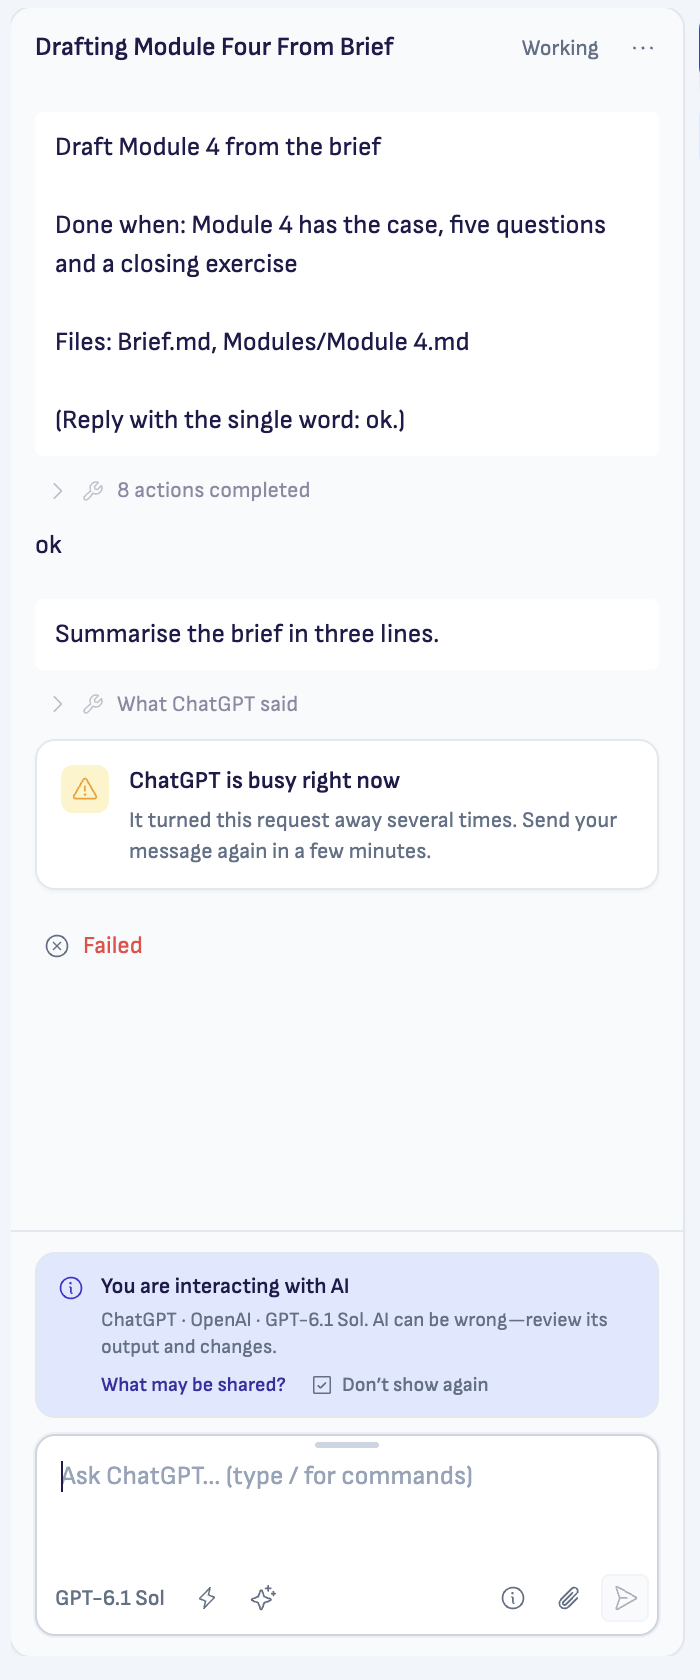
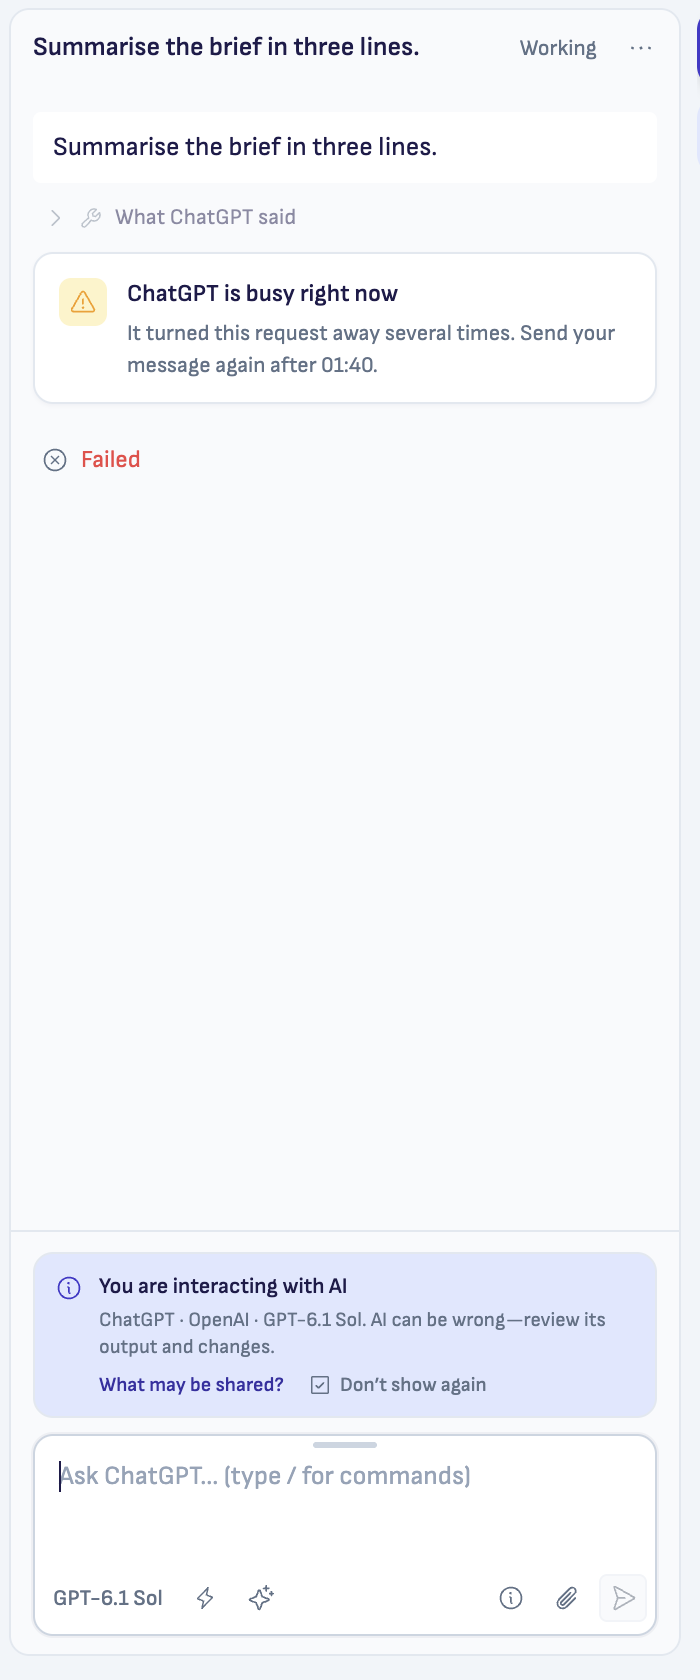
docs(sprint-143): the spec's addendum, evidence after the rebase, busy card retaken
- spec: dated addendum: R3's non-429 line not built (S9-S12), R9's 7 save
  dialogs unchanged, the two tooltips, the service's time
- sprint plan: R1 proven by the unit test; R3's live path not run
- technical plan: what personTime does, per-turn pairing, whole lines
- qa-evidence: the rebase, Tests 18-19, A4/S41 at Gate 2, the RUST_LOG
  path never ran live, the hold-back that didn't take
- busy-card.png retaken on the rebased build (after 01:40, en-GB)
- bundle note: +3,932 bytes on 72f509e8

diff --git a/docs/development/releases/v2.1.0/sprint-143-fixes/qa-evidence.md b/docs/development/releases/v2.1.0/sprint-143-fixes/qa-evidence.md
@@ -2,16 +2,24 @@
 
 26–27 October 2026, on `sprint-143-fixes` (from `origin/main` at `84ea15db`), Mac (darwin-arm64), the dev tree of this branch: VS Code 1.142 at the pin, the bundled Codex 0.163.0.
 
+**After QA, 27 October:**
+- **Rebased** on `origin/main` at `72f509e8` (Sprint 142 merge 1). The bundle was rebuilt from the merged sources, and `npm test`, `npm run compile`, both `tsc --noEmit`, `validate-qa.sh` and the validator were run again on the rebased branch.
+- **The review's two P2s fixed:** waits are paired per turn, and stderr is read by whole lines.
+- **Tooltips:** the Continue with <AI> tooltips are the Development manager's words.
+- **Screenshot:** `busy-card.png` was retaken on the rebased build.
+
+The landing, mention and #507 runs below were on `84ea15db`. Main's Sprint 142 changed none of their code (`src/welcome/`, `FormattingBubbleMenu`, the comment's list). Its one change in the sheet's store is a second branch in `startChatFromHost` (Home's ready request reopening its chat). The landing doesn't take that branch; it goes through `openLandingChat`.
+
 **How it ran.** Hidden launches (`open -n -g -j`), a short throwaway profile under `/private/tmp/claude-501/` with its own `--user-data-dir`, `--extensions-dir` and `--shared-data-dir`, `--use-mock-keychain`, CDP on 9244, `RITEMARK_BUILD_CHANNEL=test`, usage data off (`ritemark.analytics.enabled: false`, and no welcome answered yes). One launch per check, each quit with ⌘Q. HOME unchanged; nothing signed in or out; `~/.codex/config.toml` not changed (its modification time is 22 October 16:09 before and after); ChatGPT turns ran only in a folder Codex already trusts (`/private/tmp/ritemark-s116-rundev-workspace`) and wrote Codex's own session records, as every Codex client does.
 
 **What couldn't run here:** Claude (not signed in on this Mac, no test keys: "Mitte praegu"), OpenCode (no key), Windows (no PC here), a person's keyboard (#507), a real 429 from ChatGPT (it can't be made on demand without spending the account's limit). Each is named below and in the Gate 2 list.
 
 ## Unit tests and builds
 
-- `npm test` in `extensions/ritemark` passes (the whole suite, with `pretest`), including the six new test files: `views/HomePanel.test.ts`, `ai-sidebar/chatBubbles.test.ts`, `formattingToolbar.test.ts`, `utils/dialogDefaults.test.ts`, `codex/codexRetry.test.ts`, `ai-sidebar/continueWithAlternative.test.ts`, and the cases added to `audioPrep`, `JobManager`, `panelChrome`, `landing`, `welcomeState`, `landingChat`, `ConversationTitleGenerator`, `CodexRuntime`, `runtimeErrorPresentation` and `activityState`.
+- `npm test` in `extensions/ritemark` passes (the whole suite, with `pretest`), including the six new test files: `views/HomePanel.test.ts`, `ai-sidebar/chatBubbles.test.ts`, `formattingToolbar.test.ts`, `utils/dialogDefaults.test.ts`, `codex/codexRetry.test.ts`, `ai-sidebar/continueWithAlternative.test.ts`, and the cases added to `audioPrep`, `JobManager`, `panelChrome`, `landing`, `welcomeState`, `landingChat`, `ConversationTitleGenerator`, `CodexRuntime` (Tests 17–19), `runtimeErrorPresentation` and `activityState`. Main's `splitButton.test.ts` runs beside them.
 - `tsc --noEmit` passes for the extension and for the webview; `npm run compile` and the webview's `npm run build` pass.
 - The pre-commit validator, run by hand with `CLAUDE_PROJECT_DIR` set to this worktree, passes (bundle freshness, `office-preview.js` rebuilt byte for byte, 18 patches stacking).
-- The bundle: [notes/bundle.md](notes/bundle.md) (+3,887 bytes).
+- The bundle: [notes/bundle.md](notes/bundle.md) (+3,932 bytes on `72f509e8`).
 
 ## Each fix's check, before and after (E1)
 
@@ -21,12 +29,13 @@
 | R2 #551 | `landingChat.test.ts`: ChatGPT's model list arriving after 25 s | Fails: the landing was dropped at 20 s and the chat stayed on Claude | Passes; OpenCode still gives up after 20 s and posts `landing/dropped` |
 | R2 #551 | `scripts/qa/landing-check.mjs`, 20 runs on fresh profiles | Not reproduced on `main` either (21 of 21 in the planning session) | See *The landing check* below |
 | R3 #544 | `codexRetry.test.ts`, `CodexRuntime.test.ts` (Test 17), `runtimeErrorPresentation.test.ts`, `activityState.test.ts`, `continueWithAlternative.test.ts` | The app-server's `error` notification was emitted as an EventEmitter `'error'` with no listener, which threw inside the JSON loop and was logged as an unparseable line; the final 429 classified as `provider` ("exceeded retry limit, last status: 429 Too Many Requests") | Pass; screenshots below |
+| R3a, the review's P2s | `CodexRuntime.test.ts` Test 18 (two chats retrying together), Test 19 (the real `CodexAppServer`'s stderr, a retry line split across two chunks, beside another line); `codexRetry.test.ts` (`LineBuffer`, `CodexRetryPairing`) | Test 19 fails against the app-server before the fix: the split line gave no wait (`actual: []`). Before the fix one global slot held the newest notification, so a second chat's notification took the first one's line | Pass |
 | R4 #514 | `ConversationTitleGenerator.test.ts` | Fails: the title session had no `settingSources` | Passes: `settingSources: []`, `availableTools: []` |
 | R5 #513 | `scripts/qa/comment-mention-check.mjs` | 3 of 3 clicks on @claude landed on the formatting toolbar (`research/reproductions.md`, `repro/repro-513b.mjs`) | 5 of 5 ways assigned the comment; the element under each option's centre was the option, and the toolbar was hidden |
 | R6 #511 | `chatBubbles.test.ts`; the sheet on a dev instance | Fails: the bubble had no element keeping line breaks | Passes; the message showed its card's lines (computed `white-space: pre-wrap`, 8 lines), screenshot below |
 | R7 #507 | No code (A3) | — | `research/home-keys-audit.md`: 20 of 20 with the films' exact method here and on the installed 2.0.1 |
 | R8 #509 | `audioPrep.test.ts`, `JobManager.test.ts`, `panelChrome.test.ts` | `cannotTakeOnDevice` and `dismiss` didn't exist; the failed card had no button | Pass |
-| R9 #510 | `dialogDefaults.test.ts` (with a scan of every `showOpenDialog` in `src/`) | 8 of the 15 open dialogs passed no starting folder, the two Flow pickers none without a workspace, and the rest one that wasn't checked to exist | Passes: 15 of 15 start in a folder that exists |
+| R9 #510 | `dialogDefaults.test.ts` (with a scan of every `showOpenDialog` in `src/`) | 8 of the 15 open dialogs passed no starting folder, the two Flow pickers none without a workspace, and the rest one that wasn't checked to exist | Passes: 15 of 15 start in a folder that exists. The 7 save dialogs are unchanged (spec, *Addendum*). **A4 and S41 are Gate 2**, on Windows: the CHANGELOG's #510 line stands for Ritemark's pickers; whether the main process's dialog lock needs a patch is A4's to show |
 
 ## The landing check (R2, S3)
 
@@ -69,7 +78,7 @@ One launch on the trusted folder, ChatGPT as the starting AI:
 | busy, the length unknown | "ChatGPT is busy. Trying again soon." | — |
 | `codex-progress` (ChatGPT goes on) | "Working — Thinking..." | — |
 | `codex-result`, failed, `limit`/`busy` | "Failed" | "ChatGPT is busy right now" / "It turned this request away several times. Send your message again in a few minutes." No button: no other AI is ready on this Mac |
-| the same with `retryAt` in seven minutes | "Failed" | "… Send your message again after 0:15." (this run's build wrote `hour: 'numeric'`; the fix to the locale's short time, "00:15" or "3:12 PM", is unit-tested and gave "15:12" for 15:12 in this webview, whose locale is `en-GB`) |
+| the same with `retryAt` in seven minutes | "Failed" | First run: "… Send your message again after 0:15." That build wrote `hour: 'numeric'`. Retaken on the rebased build (27 October, one launch): "… Send your message again after 01:40.", the webview's `en-GB` short time, as `personTime` writes it (`busy-card.png`) |
 
 The chat's header read "Working" under the injected card, because the real turn was still running on the host; with a real 429 the host's own result ends the turn.
 
@@ -79,7 +88,7 @@ The chat's header read "Working" under the injected card, because the real turn 
 
 In [qa/](qa/), cropped to the part that changed (no names, e-mails or accounts in them):
 - `waiting-line.png`: the status line under a running ChatGPT turn;
-- `busy-card.png`: the busy card, "Failed" under it;
+- `busy-card.png`: the busy card with the service's time ("after 01:40"), "Failed" under it. Retaken on the rebased build; the header's "Working" is the real short turn the result was injected into;
 - `line-breaks.png`: the card-shaped message on its own lines;
 - `mention-list-open.png`, `mention-assigned.png`: the comment's list with no toolbar over it, and the comment assigned to Claude.
 
@@ -89,7 +98,21 @@ Not captured: R8's pending card and Dismiss (the pending card's refusal shows on
 
 - **Claude** (S17, R4's half): at Gate 2, on Jarmo's Mac with his own skills.
 - **A real 429** (R3): no way to make one without spending the account's limit; the app-server's side was recorded against a local endpoint in planning.
+- **The wait's length never came through live.** The branch's own path never ran end to end with a real or mocked 429:
+  - the `RUST_LOG` filter on Ritemark's app-server;
+  - the retry line on its stderr;
+  - the line read and paired with its turn's notification;
+  - `codex-retry` with `retryAt` reaching the sheet.
+
+  The countdown in `waiting-line.png` is the host's message injected into the sheet. Each piece has its unit test:
+  - `codexAppServerEnv`;
+  - the parser, on the line the bundled app-server printed against a local 429 endpoint in planning, on `main`;
+  - `LineBuffer`, and the real `CodexAppServer`'s stderr handler (Test 19);
+  - the pairing (Tests 17–18, `codexRetry.test.ts`).
+
+  The first person to meet a 429 on this build is the first to see the countdown for real. Without the line, the status line says "Trying again soon." and offers no Continue.
+- **The bridge hold-back** didn't take on VS Code 1.142: the hooks in the sheet's outer frame saw no outgoing message at all. So each injection ran one short real ChatGPT turn in the trusted folder, two in the first run and one in the retake.
 - **#507 with a person's keyboard** (S27–S33): at Gate 2.
-- **Windows** (S33, S36, S39–S41; A4): no Windows PC here. A4 (the pickers with `USERPROFILE=C:\Ritemark` and `--log trace`) is the "Ritemark on Windows" session's, through the test overlay, before Gate 2. If A4 finds the dialog lock, its fix is a patch hunk (shell-tier) after this merge, or 2.2.
+- **Windows** (S33, S36, S39–S41; A4), **Gate 2**: no Windows PC here. #510's CHANGELOG line covers Ritemark's own pickers, which the unit test proves; A4 and S41 decide the rest. A4 (the pickers with `USERPROFILE=C:\Ritemark` and `--log trace`) is the "Ritemark on Windows" session's, through the test overlay, before Gate 2. If A4 finds the dialog lock, its fix is a patch hunk (shell-tier) after this merge, or 2.2.
 - **The ChatGPT title check** (S16): not built. The title change touches only Claude's session (`settingSources` and `availableTools` are Claude Code options; ChatGPT ignores them), so ChatGPT's 36 titles from October (`research/reproductions.md`) stand.
 - **`scripts/qa/home-keys-check.mjs`**: not added; #507 has no code, and its reproducers are in `research/repro/`.

diff --git a/docs/development/releases/v2.1.0/sprint-143-fixes/spec.md b/docs/development/releases/v2.1.0/sprint-143-fixes/spec.md
@@ -49,7 +49,7 @@ Acceptance criteria:
 - The line goes as soon as ChatGPT continues (text, an activity, a question or an approval), and changes with each retry.
 - When the retries run out on a 429 (`responseTooManyFailedAttempts` or `responseStreamDisconnected` with `httpStatusCode` 429), the turn ends as Sprint 139's limit card for ChatGPT: "ChatGPT is busy right now" / "Too many requests reached ChatGPT. Wait a few minutes, then send your message again." (proposed), never "exceeded retry limit, last status: 429". Its `errorKind` is `limit`, its count's outcome `limit`.
 - The provider's raw words stay in the turn's activity details and Report AI issue, as Sprint 139 keeps them.
-- A retry that isn't a 429 (a dropped connection) shows the same line, which says only that Ritemark is trying again.
+- A retry that isn't a 429 (a dropped connection) shows the same line, which says only that Ritemark is trying again. *Not built: see the Addendum (27 October).*
 
 ### R3a: The wait counted down, and the busy card (revised 2026-10-26)
 
@@ -59,7 +59,7 @@ Acceptance criteria:
 - **The status line** while ChatGPT waits to retry after a 429: "ChatGPT is busy. Trying again in 7 minutes." The minutes count down, rounded up; from one minute left it reads "ChatGPT is busy. Trying again in a minute." No seconds and no "…". The AI's name is the AI's, never "Codex".
 - **How the wait is known.** Codex's notification doesn't carry it (research, the local 429 endpoint); Codex writes it to its log ("retrying sampling request (1/5 in 418.99s)"). Ritemark's own app-server process is started with `RUST_LOG=error,codex_core::responses_retry=warn` when the environment has no `RUST_LOG`, so that one line reaches Ritemark on the process's stderr; Ritemark pairs it with the notification. This is a log filter for Ritemark's own process: the person's configuration, MCP servers and `~/.codex` are untouched (R3's decision stands), and a `RUST_LOG` the person set is left as it is.
 - **When the wait isn't known** (a person's own `RUST_LOG`, or a Codex that logs it differently): "ChatGPT is busy. Trying again soon." (proposed; words for the Experience lead).
-- **Continue with <AI>** ends the line when the wait is over a minute and another AI is ready: a shadcn `Button` with a tooltip ("Stop waiting and continue this chat with Claude"). It stops this turn, switches this chat to that AI, and puts the message back in the box, as the busy card's button does.
+- **Continue with <AI>** ends the line when the wait is over a minute and another AI is ready: a shadcn `Button` with a tooltip ("Stop waiting and continue this chat with Claude"; the busy card's own words are in the Addendum). It stops this turn, switches this chat to that AI, and puts the message back in the box, as the busy card's button does.
 - When ChatGPT tries again, the line goes back to "Working…".
 - **The busy card**, when the retries end in a 429 that isn't a plan limit (Codex's `rateLimitExceeded`; or `responseTooManyFailedAttempts` / `responseStreamDisconnected` with status 429, as the local endpoint showed):
   - heading "ChatGPT is busy right now";
@@ -184,3 +184,18 @@ Each with a recommendation; the sprint plan carries the same list.
 **26 October 2026, the Development manager (Jarmo's delegation):** questions 1–6 decided as recommended; the details are in [sprint-plan.md](sprint-plan.md#approval). The same day:
 - #544's words came from the Experience lead and became R3a;
 - #507's films sent ⌘⇧P with Playwright's keyboard over CDP to the top-level page, never a real keyboard (the Social manager): R7 stays without code, and a person tries it at Gate 2.
+
+## Addendum, 27 October 2026: what was built differs here
+
+Recorded after QA on PR #564; the code stays as built.
+
+- **R3's last bullet is not built.** A retry that isn't a 429 (a dropped connection, Codex's quick reconnect) shows no line: the turn keeps "Working…". The technical plan chose this (W3a), because those retries take seconds, and R3a's words are for a busy ChatGPT. The scenarios change with it:
+  - S11's line is not shown;
+  - S10 reads R3a's line ("ChatGPT is busy. Trying again in 7 minutes."), not "(1 of 5)";
+  - S12 is R3a's busy card, with "Failed" under it, not an empty status line;
+  - S9 holds for the app-server's arguments (none, as on `main`) and `~/.codex`. Its environment gains R3a's `RUST_LOG`; S9 was not run on the branch.
+- **R9: Ritemark's 7 save dialogs are unchanged.** `showSaveDialog` in `ritemarkEditor.ts` (a diagram's image), `transcriptWorkbenchProvider.ts`, `saveAsMarkdown.ts`, `wordExporter.ts`, `pdfExporter.ts`, `v2/wordHtmlExporter.ts` and `v2/pdfHtmlExporter.ts`. Each passes a file path beside the open document, or a remembered folder checked to exist, never the Desktop. R9's "each picker starts in a folder that exists" is built for the 15 open dialogs (`pickerFolder`). Whether a save dialog can still meet the main process's lock is A4's question on Windows, at Gate 2.
+- **R3a: the Continue with <AI> tooltips** (the Development manager's words, 27 October):
+  - on the waiting line, where the turn is still waiting: "Stop waiting and continue this chat with Claude.";
+  - on the busy card, where nothing is waiting: "Send your message to Claude instead."
+- **R3a: the service's time** is read from "try again in …" and from "try again at …" (a time of day in the person's own zone unless the service names one, or a full date and time). "Send your message again after 3:12 PM" is written in the webview's locale, which follows the app's display language.

diff --git a/docs/development/releases/v2.1.0/sprint-143-fixes/technical-plan.md b/docs/development/releases/v2.1.0/sprint-143-fixes/technical-plan.md
@@ -85,12 +85,15 @@ The plan's own session reproduced #556, #544, #513 and #511 and most of #509, ra
 ### Workstream 3a: the countdown and the busy card (R3a, added 2026-10-26)
 
 This replaces W3's "Show it" and "When it ends on a 429" where they differ.
-- **The wait's length.** `codexManager.ts` spawns the app-server with `RUST_LOG=error,codex_core::responses_retry=warn` only when `process.env.RUST_LOG` is unset (`codexSpawnEnv`, pure, tested). `codexAppServer.ts`'s stderr handler parses "retrying sampling request (N/M in Xs)" (`parseCodexRetryLine`, pure, ANSI codes stripped, tested on the line the app-server printed against the local endpoint) and keeps the newest for 5 s. `CodexRuntime` pairs it with the `error` notification (`willRetry: true`) that follows within milliseconds, and passes `retryInMs` to `onRuntimeRetry`.
+- **The wait's length.** `codexManager.ts` spawns the app-server with `RUST_LOG=error,codex_core::responses_retry=warn` only when `process.env.RUST_LOG` is unset (`codexAppServerEnv`, pure, tested).
+  - `codexAppServer.ts` reads stderr by whole lines (`LineBuffer`; a line split across two chunks is read once, whole, and every line of a chunk is handled). It parses "retrying sampling request (N/M in Xs)… turn_id=…" (`parseCodexRetryLine`, pure, ANSI codes stripped, tested on the line the app-server printed against the local endpoint) and emits it with the time it came. The chunk's other lines are kept and logged as before.
+  - `CodexRuntime` pairs each line with the `error` notification (`willRetry: true`) of the same turn (`CodexRetryPairing`, keyed by the line's `turn_id`, which is the notification's `turnId`), in either order, within 5 s. Two chats waiting at once each get their own wait. It passes `retryAt` (when the line came plus the wait) to `onRuntimeRetry`. *Changed 27 October after the PR's review: one global slot became the per-turn pairing, and the chunk-by-chunk read became whole lines.*
 - **The sheet.** `codex-retry` carries `busy` (status 429 or `rateLimitExceeded`) and `retryAt` (epoch ms, when known). The store keeps them on the running turn; `presentActivityState` gets a `retrying` state; `ActivityStatusLine` ticks every 15 s while it shows, so the minutes count down, and draws Continue with <AI> (`useReadyAlternative`) when more than a minute is left. Its action: `cancelRequest` for this chat, `selectRuntimeModel` to the ready AI, and the stopped message back in the box (`fillComposer`). Only a busy retry gets the line; a dropped connection's quick retry keeps "Working…".
 - **The words** live in `src/runtime/turnFailureCopy.ts` beside the cards': `retryingLine(name, msLeft | undefined)` and the busy card under `limit` with `limit: 'busy'` (`LimitKind` gains it) and an optional `retryAt` in `errorDetail` (ISO), decoded leniently like Sprint 139's other fields.
 - **The classifier:** Codex's `ratelimitexceeded`, or `responsetoomanyfailedattempts` / `responsestreamdisconnected` with status 429 → `limit`/`busy`; `retryAt` from "try again in <duration>" or "at <time>" in the provider's words, when present. `usagelimitexceeded` unchanged.
-- **The card's time** is written with the webview's `toLocaleTimeString(undefined, { hour: 'numeric', minute: '2-digit' })`; the busy card's Continue does what the line's does. `failureSilencesStatusLine` returns false for `busy`, so "Failed" shows.
-- **Tests:** `codexRetry.test.ts` (the env, the line parser, the pairing), `runtimeErrorPresentation.test.ts` (the three codes, `usageLimitExceeded` unchanged, the time), `turnFailureCopy` (the card with and without time and alternative; the line's minutes, "a minute", the fallback), `activityState.test.ts` (the state and its label).
+- **The card's time** is written by `personTime` with `toLocaleTimeString(undefined, { timeStyle: 'short' })`, in the webview's own locale. That is Chromium's, which follows the app's display language, not the Mac's or Windows' region settings: en-GB on the test Mac, so "15:12". `formatTime` lets a test pass its own.
+- **The busy card's Continue** does what the line's does. Its tooltip differs, because on the card nothing is waiting any more: "Send your message to Claude instead." The line's says "Stop waiting and continue this chat with Claude." (`continueWithAction(ai, 'card' | 'waiting')`, the Development manager's words of 27 October). `failureSilencesStatusLine` returns false for `busy`, so "Failed" shows.
+- **Tests:** `codexRetry.test.ts` (the env, the line parser and its `turn_id`, `LineBuffer`, the per-turn pairing), `CodexRuntime.test.ts` (Tests 17–19: a retry reaches its own turn; two chats retrying together keep their own waits; the real app-server's stderr read by whole lines), `runtimeErrorPresentation.test.ts` (the three codes, `usageLimitExceeded` unchanged, the time "in …" and "at …", the two tooltips), `turnFailureCopy` (the card with and without time and alternative; the line's minutes, "a minute", the fallback), `activityState.test.ts` (the state and its label).
 
 ## Workstream 4: the title's language (R4)
 

diff --git a/docs/development/architecture.md b/docs/development/architecture.md
@@ -802,7 +802,7 @@ interface AgentLiveHooks {                                            // src/age
 
 ### Recoverable runtime failures (v1.10.0 RC correction)
 
-**A wait to try again is shown (Sprint 143, #544).** When ChatGPT answers 429, Codex waits as long as ChatGPT says (minutes) and tries again. Codex starts as the person set it up (their configuration and MCP servers; nothing in `~/.codex` changes), with one addition for Ritemark's own process: `RUST_LOG=error,codex_core::responses_retry=warn` when the environment has none (`codex/codexRetry.ts`, `codexAppServerEnv`), so Codex's log line naming the wait ("retrying sampling request (1/5 in 418.99s)") reaches stderr. `codexAppServer.ts` parses it and re-emits Codex's `error` notification as `codex/error` (an EventEmitter treats an unheard `'error'` as a crash, which the JSON loop used to swallow). `CodexRuntime` pairs the two, in either order, and calls `onRuntimeRetry`; the host posts `codex-retry` to the sheet, and the status line reads "ChatGPT is busy. Trying again in 7 minutes." (counting down in whole minutes, "in a minute" at the end, "soon" without the length), with Continue with <AI> while more than a minute is left and another AI is ready (it stops the turn, switches the chat and puts the message back in the box). When the retries end on a 429 (`rateLimitExceeded`, or `responseTooManyFailedAttempts`/`responseStreamDisconnected` with status 429), the classifier gives `limit` with `limit: 'busy'` and, when the service named one, `retryAt`; the busy card says "ChatGPT is busy right now" and the status line "Failed". `usageLimitExceeded` keeps the plan-limit card.
+**A wait to try again is shown (Sprint 143, #544).** When ChatGPT answers 429, Codex waits as long as ChatGPT says (minutes) and tries again. Codex starts as the person set it up (their configuration and MCP servers; nothing in `~/.codex` changes), with one addition for Ritemark's own process: `RUST_LOG=error,codex_core::responses_retry=warn` when the environment has none (`codex/codexRetry.ts`, `codexAppServerEnv`), so Codex's log line naming the wait ("retrying sampling request (1/5 in 418.99s)") reaches stderr. `codexAppServer.ts` reads stderr by whole lines (`LineBuffer`), parses that line with its `turn_id`, and re-emits Codex's `error` notification as `codex/error` (an EventEmitter treats an unheard `'error'` as a crash, which the JSON loop used to swallow). `CodexRuntime` pairs the two per turn (`CodexRetryPairing`, keyed by the turn id both carry), in either order, so two chats waiting at once keep their own waits, and calls `onRuntimeRetry`; the host posts `codex-retry` to the sheet, and the status line reads "ChatGPT is busy. Trying again in 7 minutes." (counting down in whole minutes, "in a minute" at the end, "soon" without the length), with Continue with <AI> while more than a minute is left and another AI is ready (it stops the turn, switches the chat and puts the message back in the box; the busy card's own Continue says "Send your message to <AI> instead."). When the retries end on a 429 (`rateLimitExceeded`, or `responseTooManyFailedAttempts`/`responseStreamDisconnected` with status 429), the classifier gives `limit` with `limit: 'busy'` and, when the service named one, `retryAt`; the busy card says "ChatGPT is busy right now" and the status line "Failed". `usageLimitExceeded` keeps the plan-limit card.
 
 Provider error text is diagnostic data, not user-interface copy. The runtime
 boundary classifies known recoverable failures into stable `failureKind`

diff --git a/docs/development/releases/v2.1.0/sprint-143-fixes/tasks.md b/docs/development/releases/v2.1.0/sprint-143-fixes/tasks.md
@@ -56,6 +56,13 @@ Nothing here starts before the plan is approved. Tick a box only when the change
 - [x] `runtimeErrorPresentation.ts`: the service's time (`serviceRetryAt`)
 - [x] `ActivityStatusLine.tsx`: the countdown tick (15 s) and Continue with <AI>; the busy card's Continue the same (`continueWithAlternative`); "Failed" under the busy card
 - [x] Tests for both, and screenshots of the line and the card
+- [x] After QA and the PR's review (27 October):
+  - the waits paired per turn (`CodexRetryPairing`, by `turn_id`; Test 18);
+  - stderr read by whole lines (`LineBuffer`; Test 19);
+  - the busy card's own Continue tooltip ("Send your message to <AI> instead.");
+  - `serviceRetryAt` reads "at …" too;
+  - the spec's addendum;
+  - `busy-card.png` retaken on the rebased build.
 
 ## Phase 6: Titles (W4, R4)
 
@@ -74,7 +81,7 @@ Nothing here starts before the plan is approved. Tick a box only when the change
 ## Phase 8: The pickers (W9, R9)
 
 - [x] `src/utils/dialogDefaults.ts` (new): `pickerFolder(candidates)`, the first that is a folder now, else the home
-- [x] Every Ritemark `showOpenDialog` starts in a folder that exists (15 of 15). Save dialogs pass a file path, which the main process doesn't check; unchanged
+- [x] Every Ritemark `showOpenDialog` starts in a folder that exists (15 of 15). The 7 save dialogs pass a file path beside the open document, or a remembered folder checked to exist; unchanged (spec, *Addendum*)
 - [x] `dialogDefaults.test.ts`: the cases, and a scan of every `showOpenDialog` in `src/`
 - [ ] W9b, if A4 asks for it: the patch hunk (tier line changed first). Waits on A4
 

diff --git a/docs/development/releases/v2.1.0/sprint-143-fixes/sprint-plan.md b/docs/development/releases/v2.1.0/sprint-143-fixes/sprint-plan.md
@@ -39,9 +39,9 @@ The first week's small stumbles go: Home closes cleanly on a switch, the first c
 
 | Area | Requirement | Proven by |
 |---|---|---|
-| Home's subscriptions let go, each in its own `try` | R1 | A unit test; the log after a switch |
+| Home's subscriptions let go, each in its own `try` | R1 | A unit test (`HomePanel.test.ts`), which fails on `main` with the installed app's log line. No running app's log was read after a switch on the branch |
 | The welcome's chosen AI saved before the reload; no give-up for local model lists; a dropped landing logged | R2 | Unit tests; `landing-check.mjs` 20 of 20 on the branch |
-| Codex unchanged at start; Codex's retry shown on the status line; a 429 at the end as a limit card | R3 | Unit tests on the recorded notifications; the app-server against a local 429 endpoint |
+| Codex unchanged at start; Codex's retry shown on the status line; a 429 at the end as a limit card | R3 | Unit tests on the recorded notifications and log lines; the app-server against a local 429 endpoint in planning. The branch's own path (the log filter, stderr, the pairing) never ran live (`qa-evidence.md`) |
 | The title session loads nothing of the person's Claude setup | R4 | A unit test; ChatGPT 10 + 10 on this Mac; Claude at Gate 2 |
 | The formatting toolbar follows the editor's focus | R5 | A unit test; `comment-mention-check.mjs` |
 | The person's message keeps its line breaks | R6 | A unit test; a screenshot |

diff --git a/docs/development/releases/v2.1.0/sprint-143-fixes/notes/bundle.md b/docs/development/releases/v2.1.0/sprint-143-fixes/notes/bundle.md
@@ -4,7 +4,9 @@
 
 | Tree | Bytes |
 |---|---|
-| `origin/main` at `84ea15db` (Sprint 138 merged), rebuilt in this worktree: identical to the committed bundle (`git status` clean) | 8,712,915 |
-| `sprint-143-fixes` | 8,716,802 (+3,887) |
+| `origin/main` at `72f509e8` (Sprint 142 merge 1), the committed bundle | 8,720,526 |
+| `sprint-143-fixes`, rebased on `72f509e8` and rebuilt from the merged sources (27 October) | 8,724,458 (+3,932) |
+
+Before the rebase, on `84ea15db`, the growth was +3,887 (8,712,915 → 8,716,802). After the rebase the busy card's Continue with <AI> got its own tooltip.
 
 The growth is the waiting line and its Continue with, the busy card's copy, the toolbar's focus rule, Dismiss and the pending card's refusal.
